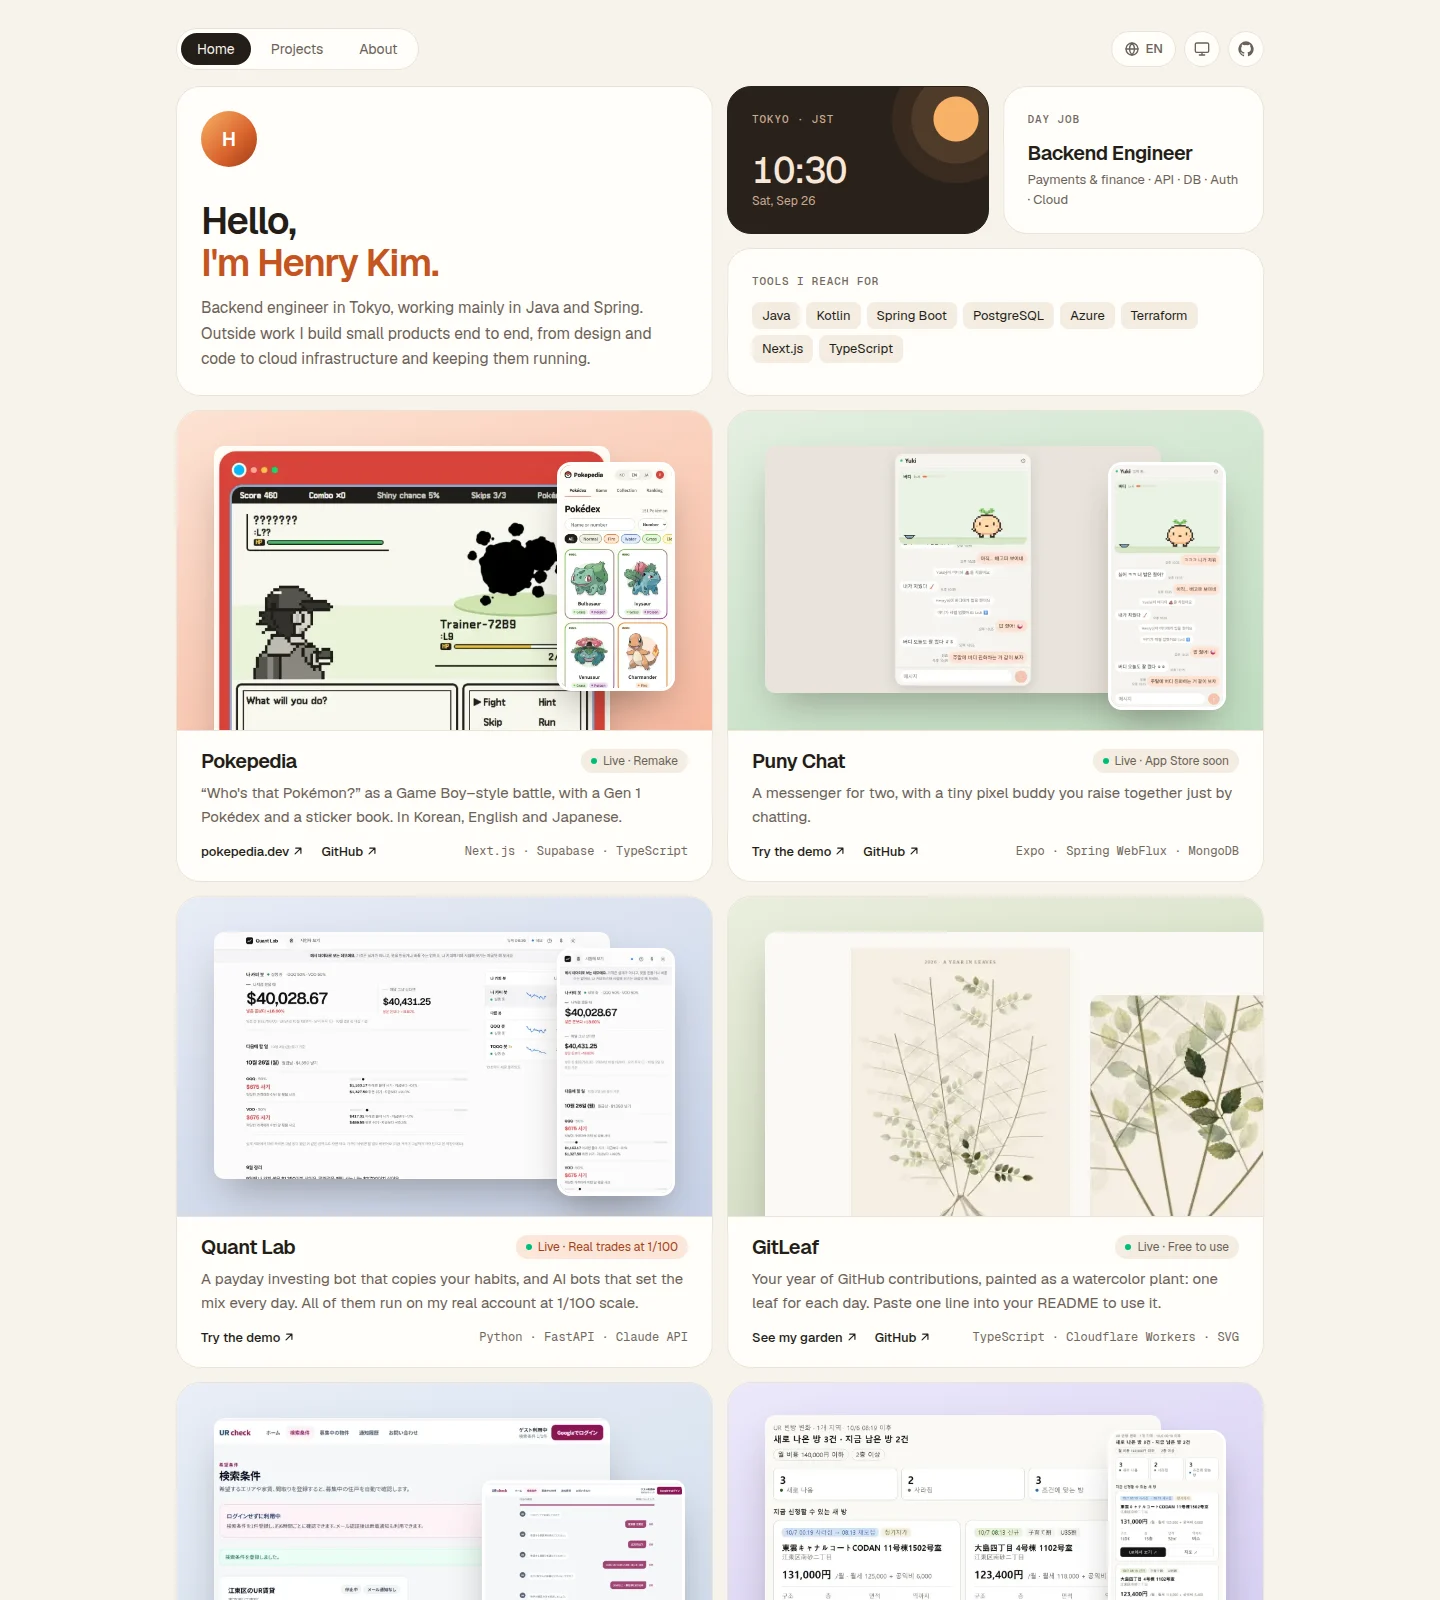
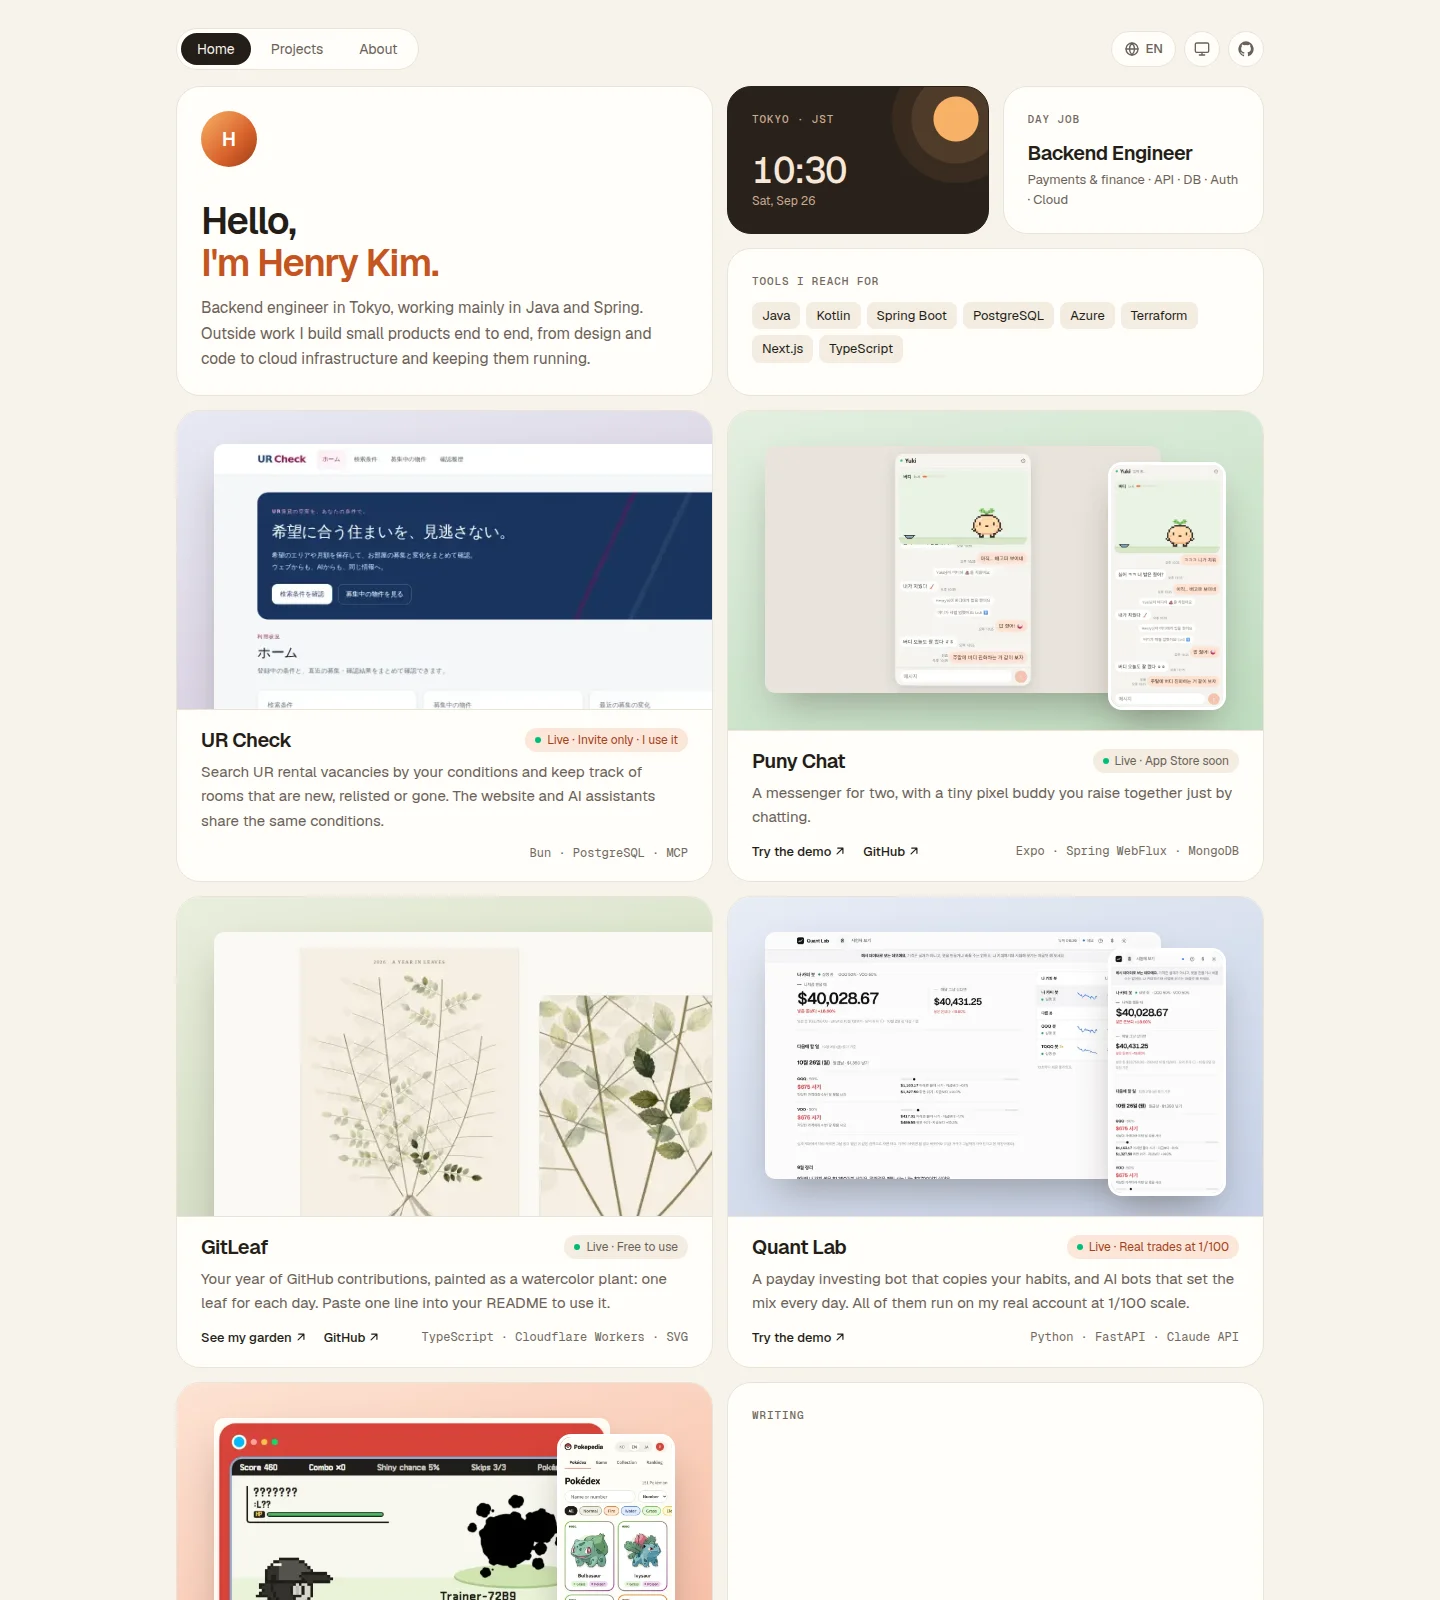
Profile: UR Check replaces UR Manager and UR MCP App, Puny Chat runs on Lightsail (#13)
Claude-Session: https://claude.ai/code/session_01EfKEEZmVa9rETKrKox4cCi

Changed region(s): [[0.125, 0.25, 0.875, 1.0], [0.6562, 0.9375, 0.75, 1.0]]

diff --git a/README.md b/README.md
@@ -9,18 +9,16 @@ Before software, I spent my twenties as a hairstylist.
 
 #### Things I've built
 
-- **[UR Manager](https://www.portfolio-hub.dev/projects/ur-manager)** — Email alerts when a UR apartment that matches your search opens up in Tokyo. Now being merged with UR MCP App into UR Check.  
-  <sub>Spring Boot · Azure Container Apps · Terraform</sub>
-- **[UR MCP App](https://www.portfolio-hub.dev/projects/ur-mcp)** — An MCP server and app that lets Claude and ChatGPT search UR rental vacancies without getting them wrong, show the rooms as cards in the chat, and catch new ones three times a day. Now being merged with UR Manager into UR Check.  
-  <sub>TypeScript · MCP · Hono · SQLite · Railway</sub>
-- **[Pokepedia](https://pokepedia.dev)** — A Game Boy–style “Who's that Pokémon?” battle with a Gen 1 Pokédex, in Korean, English and Japanese. [Source](https://github.com/ottuck/pokepedia)  
-  <sub>Next.js · Supabase · Vercel</sub>
+- **[UR Check](https://www.portfolio-hub.dev/projects/ur-check)** — Search UR rental vacancies by your conditions and keep track of rooms that are new, relisted or gone. The website and AI assistants share the same conditions. Invite only; it grew out of UR Manager and UR MCP App.  
+  <sub>Bun · Hono · PostgreSQL · React · MCP · AWS Lightsail</sub>
 - **[Puny Chat](https://puny-chat.com/demo)** — A messenger for two, with a tiny pixel buddy you raise together just by chatting. iPhone and web. [Source](https://github.com/ottuck/puny-chat)  
-  <sub>Expo · Spring WebFlux · MongoDB Atlas · Railway · Cloudflare</sub>
-- **[Quant Lab](https://demo.trading-lab.me)** — A payday investing bot for US stocks that copies your habits, plus AI bots that set the mix every day. They run on my real account at 1/100 scale; the demo runs on synthetic prices.  
-  <sub>Python · FastAPI · PostgreSQL · React · Claude API · Docker · AWS Lightsail</sub>
+  <sub>Expo · Spring WebFlux · MongoDB Atlas · AWS Lightsail · Cloudflare</sub>
 - **[GitLeaf](https://botanical-garden.ottuck.workers.dev/ottuck?motion=breeze)** — Paints your year of GitHub contributions as a watercolor plant, one leaf for each day. Paste one line into your README to use it. [Source](https://github.com/ottuck/gitleaf)  
   <sub>TypeScript · Cloudflare Workers · D1 · R2 · SVG</sub>
+- **[Quant Lab](https://demo.trading-lab.me)** — A payday investing bot for US stocks that copies your habits, plus AI bots that set the mix every day. They run on my real account at 1/100 scale; the demo runs on synthetic prices.  
+  <sub>Python · FastAPI · PostgreSQL · React · Claude API · Docker · AWS Lightsail</sub>
+- **[Pokepedia](https://pokepedia.dev)** — A Game Boy–style “Who's that Pokémon?” battle with a Gen 1 Pokédex, in Korean, English and Japanese. [Source](https://github.com/ottuck/pokepedia)  
+  <sub>Next.js · Supabase · Vercel</sub>
 
 #### Usually working with
 
@@ -31,7 +29,7 @@ Java · Kotlin · Spring Boot · PostgreSQL · Azure · Terraform · Next.js · 
 <a href="https://www.portfolio-hub.dev">
   <picture>
     <source media="(prefers-color-scheme: dark)" srcset="images/portfolio-dark.webp" />
-    <img src="images/portfolio-light.webp" alt="portfolio-hub.dev — Henry Kim's portfolio with its projects: UR Manager, UR MCP App, Pokepedia, Puny Chat, Quant Lab and GitLeaf" />
+    <img src="images/portfolio-light.webp" alt="portfolio-hub.dev — Henry Kim's portfolio with its projects: UR Check, Puny Chat, GitLeaf, Quant Lab and Pokepedia" />
   </picture>
 </a>
 
